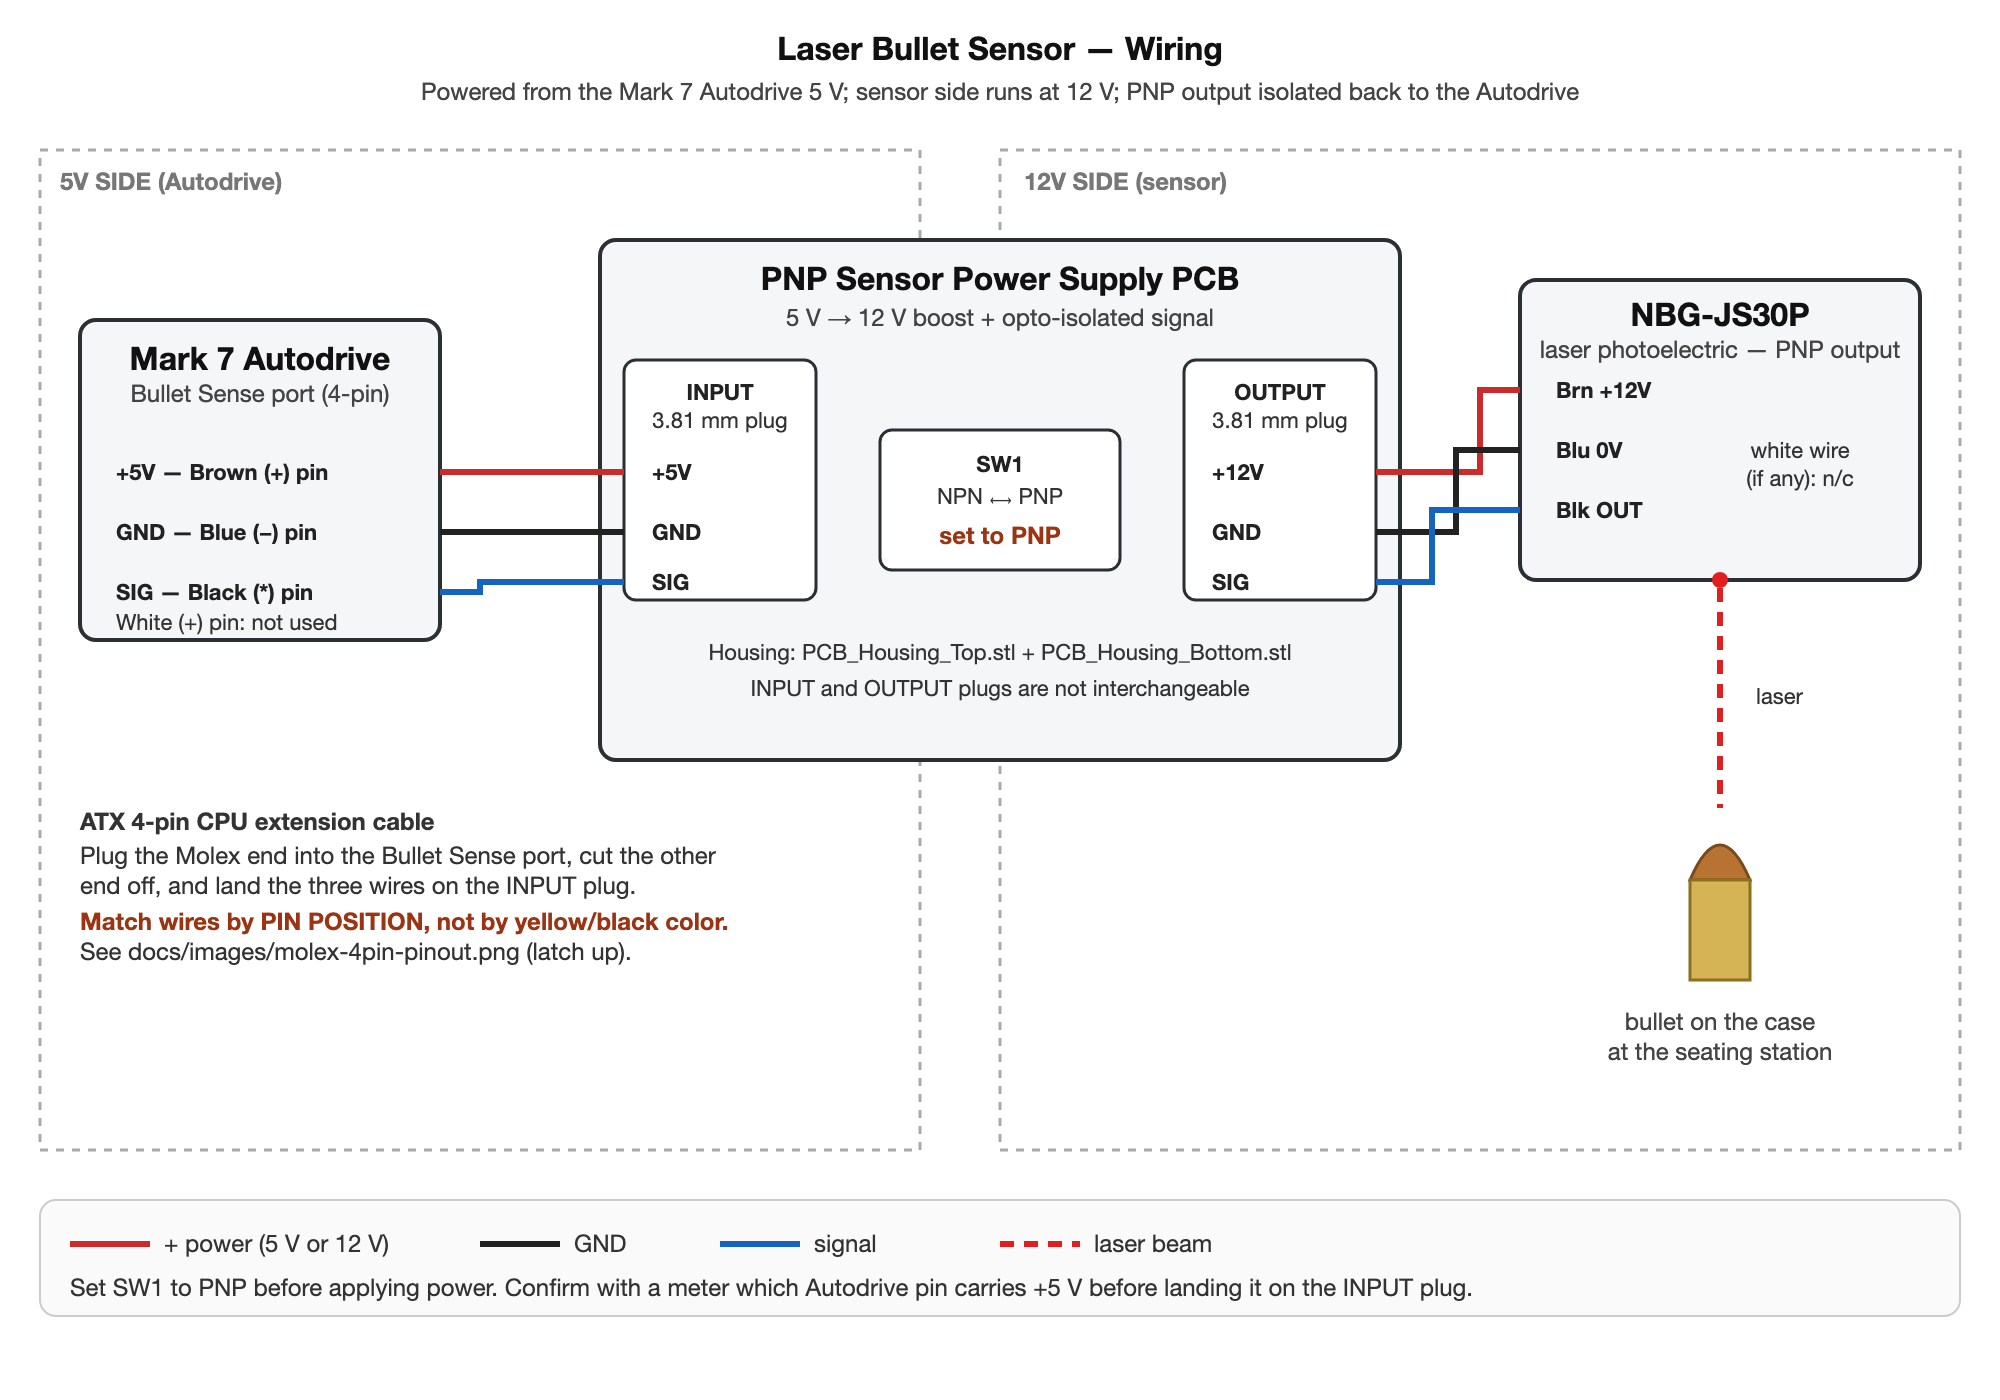
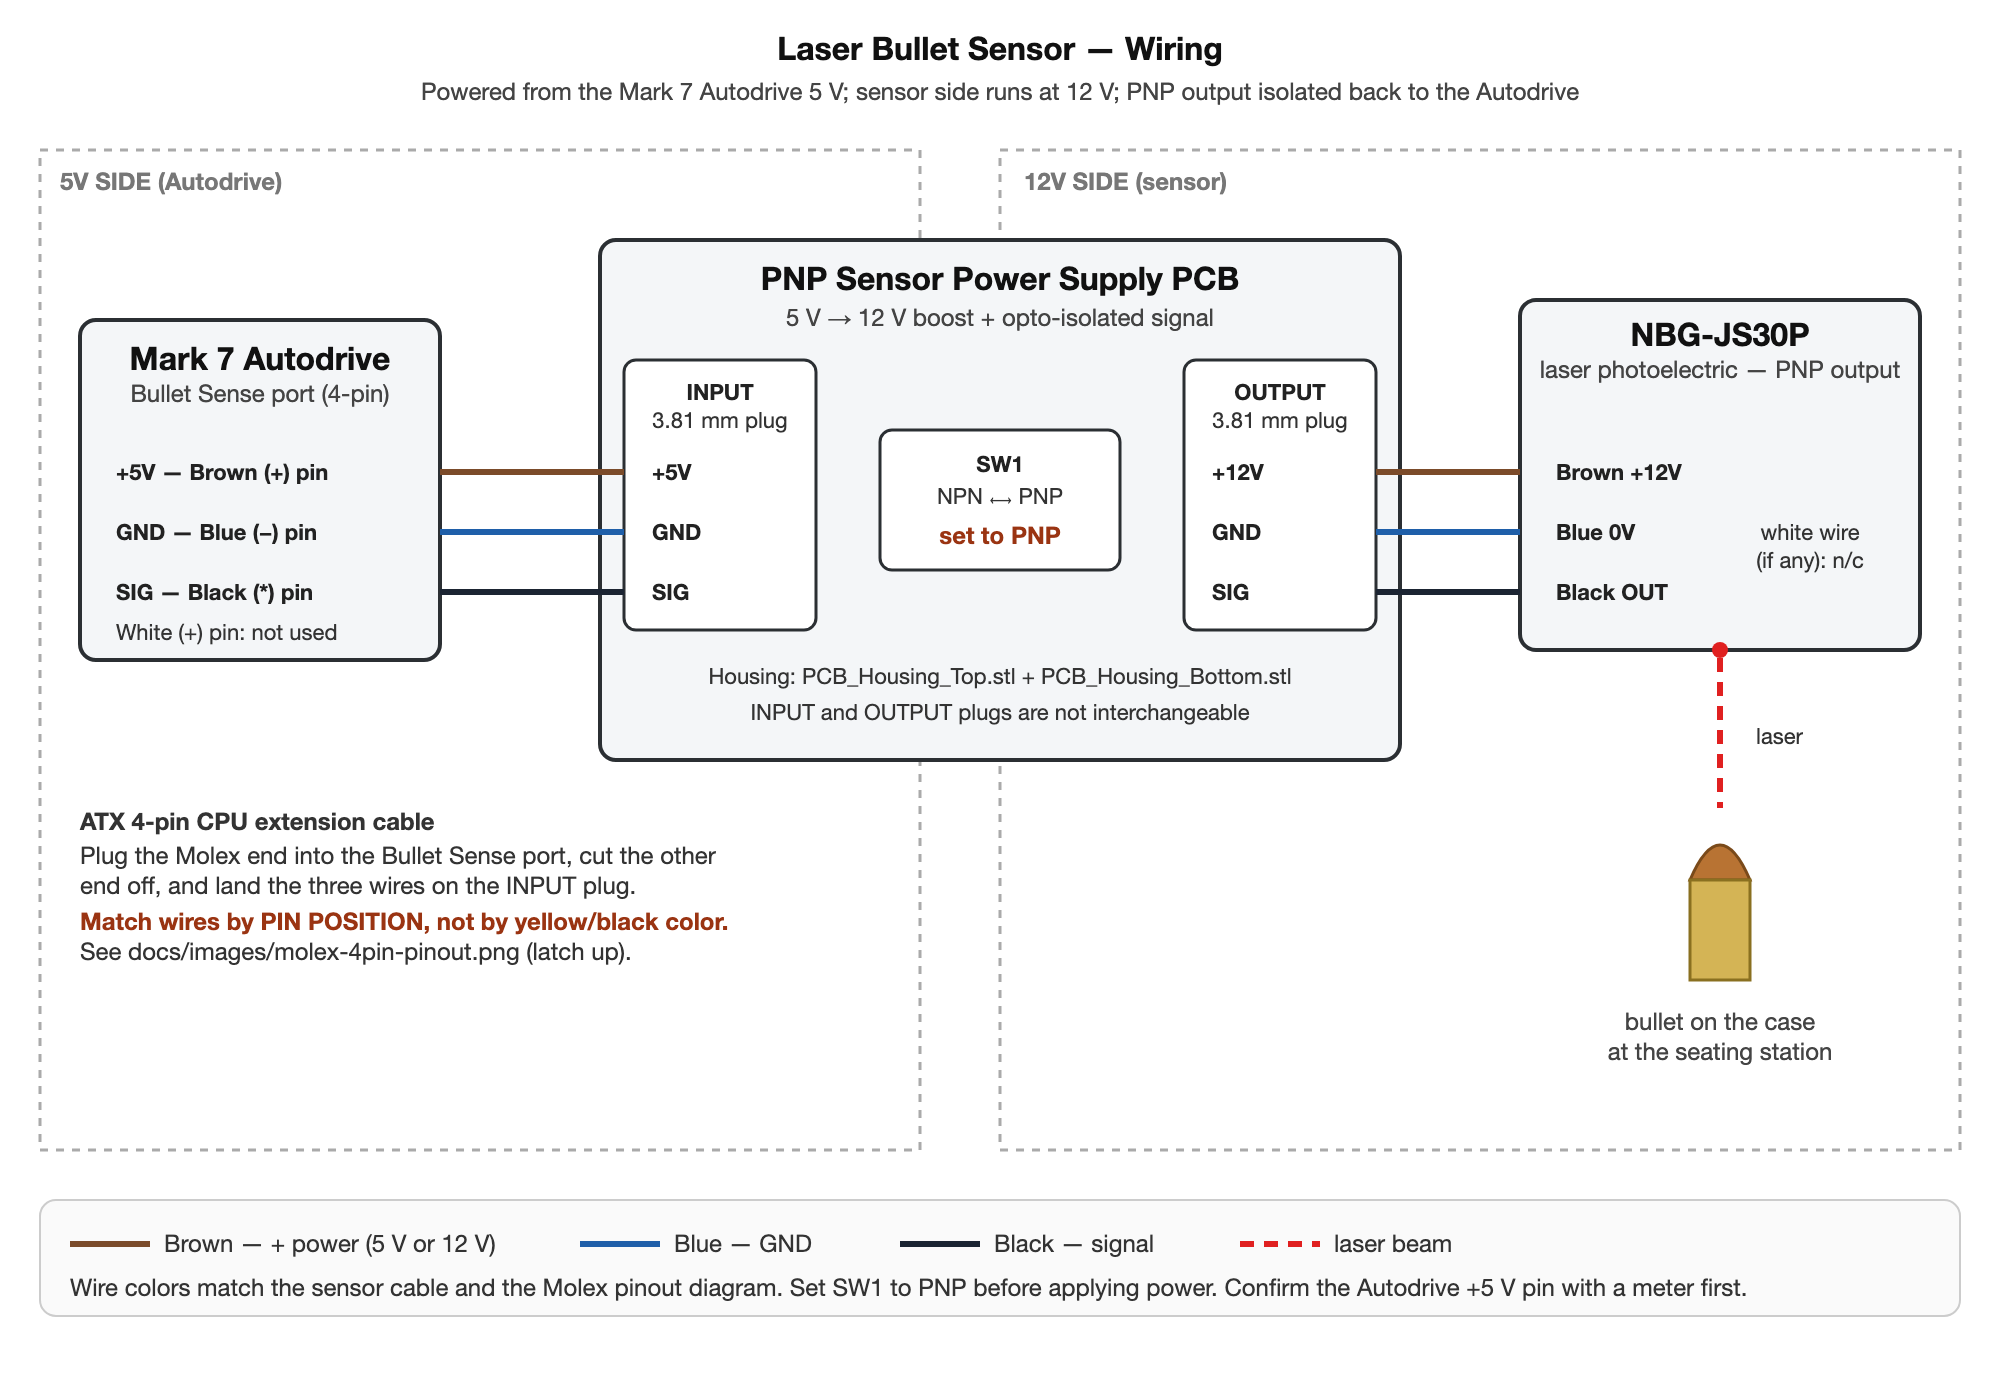
Update wiring diagram and README with improved settings and dimensions

diff --git a/README.md b/README.md
@@ -87,7 +87,7 @@ All four parts are in [`hardware/`](hardware/) as STL files, modeled in millimet
 ![Bracket and linear rod](docs/images/hardware_rendering.png)
 
 - **Material:** PETG or ABS/ASA recommended for stiffness and proximity to the press; PLA works for bench testing.
-- **Suggested settings:** 0.2 mm layers, 3–4 perimeters, 20–30% infill. The bracket and rod carry the sensor's weight and get clamped, so don't skimp on perimeters.
+- **Suggested settings:** 0.2 mm layers, 5 Walls, 20–30% infill. The bracket and rod carry the sensor's weight and get clamped, so don't skimp on perimeters.
 - Print the bracket flat on its long face and the rod on its side so the clamp bore and the sensor holes come out round; add supports only if your orientation needs them.
 - Test-fit the rod in the bracket clamp, the sensor screws in the rod, and the PCB in the housing before final assembly. Tune your slicer's hole/horizontal-expansion compensation if anything is tight.
 
